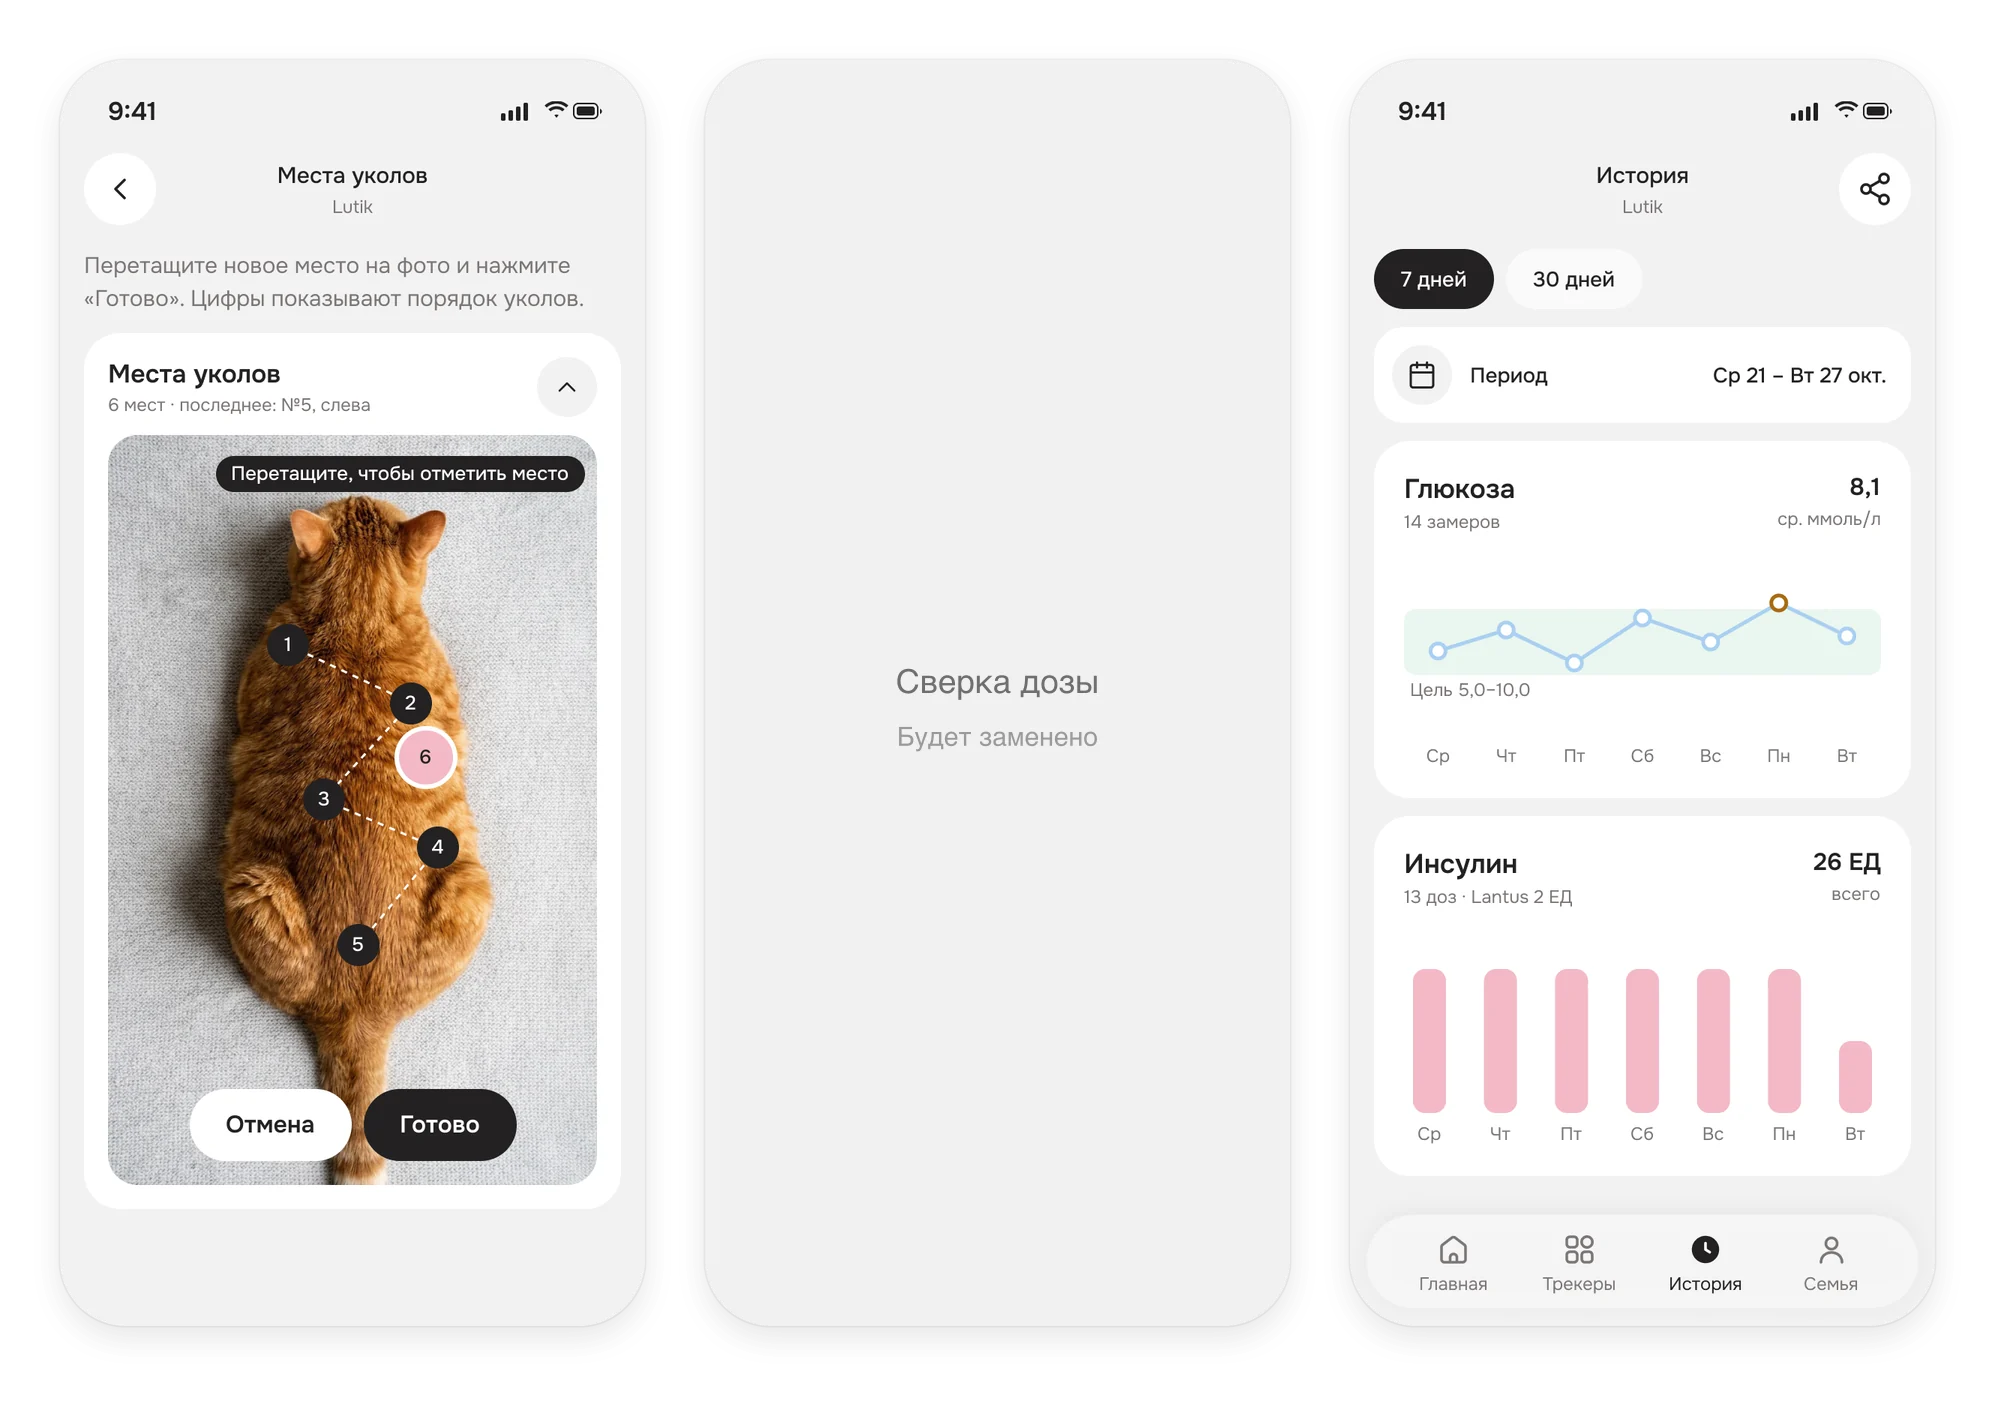
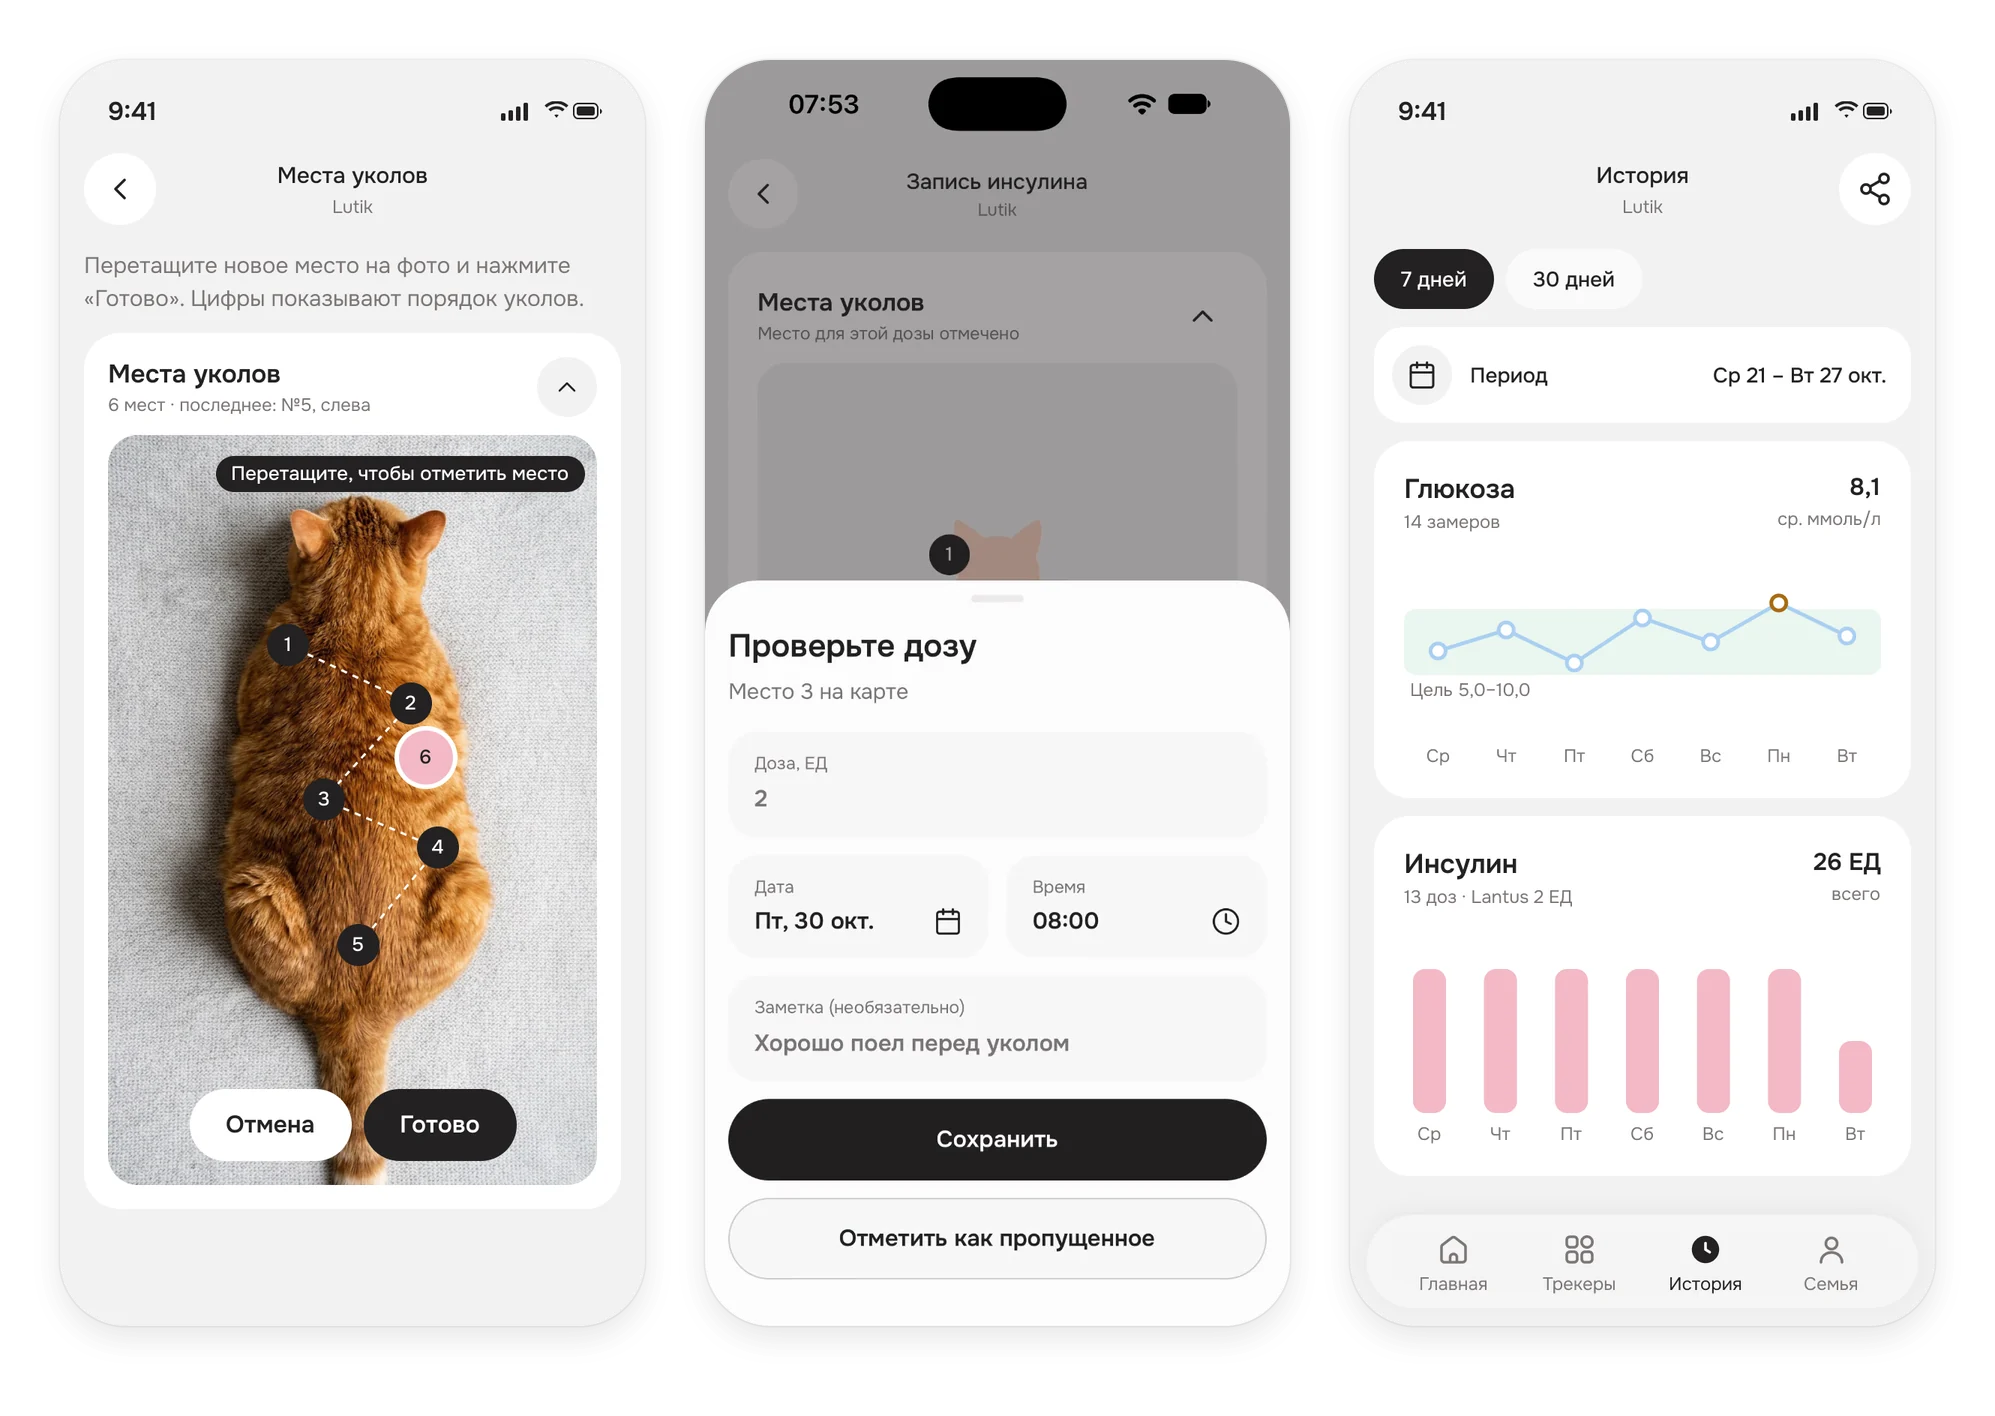
feat: real dose check sheet in the after slider, a still from the app recording

diff --git a/src/data/caseStudies.ru.js b/src/data/caseStudies.ru.js
@@ -134,7 +134,7 @@ export const catAppCaseStudy = {
           },
           after: {
             src: fluffyChumbStoryWebMvpAfter,
-            alt: 'Вторая версия, те же шаги: карта уколов на весь экран, пока ставится новое место, заглушка шторки сверки дозы и «История» с графиками глюкозы и инсулина',
+            alt: 'Вторая версия, те же шаги: карта уколов на весь экран, пока ставится новое место, шторка сверки дозы поверх карты и «История» с графиками глюкозы и инсулина',
           },
           // The pictures in 1x px (scripts/build-case-frames.mjs): three 390 px
           // screens 40 px apart; a phone shows a 430 px window round each.

diff --git a/src/data/caseStudies.js b/src/data/caseStudies.js
@@ -134,7 +134,7 @@ export const catAppCaseStudy = {
           },
           after: {
             src: fluffyChumbStoryWebMvpAfter,
-            alt: 'Version two, the same steps: the injection map on the whole screen while a new site is placed, a stand-in for the dose check sheet, and History with glucose and insulin charts',
+            alt: 'Version two, the same steps: the injection map on the whole screen while a new site is placed, the Check the dose sheet over the map, and History with glucose and insulin charts',
           },
           // The pictures in 1x px (scripts/build-case-frames.mjs): three 390 px
           // screens 40 px apart; a phone shows a 430 px window round each.
